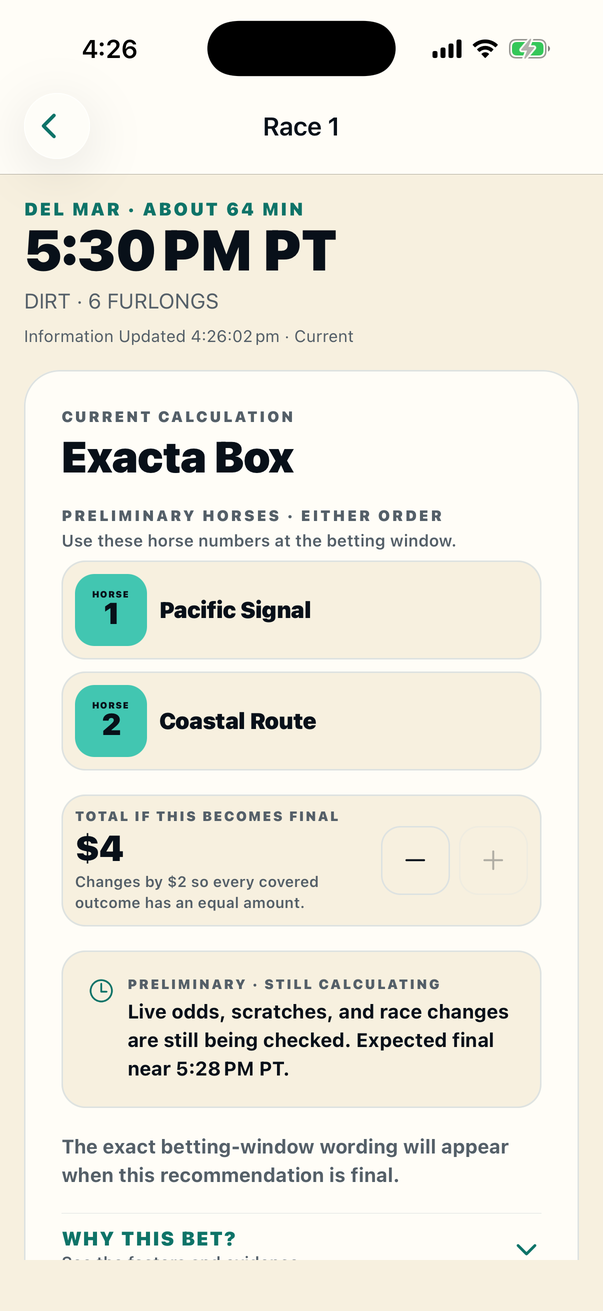
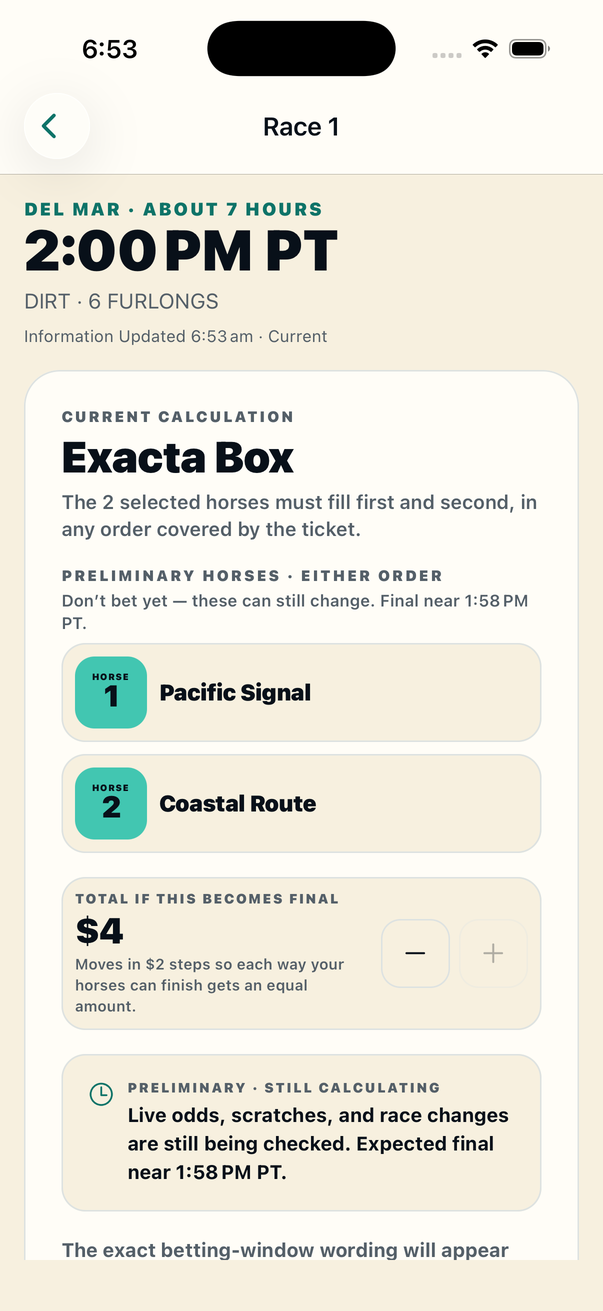
Refresh app screenshots from the redesigned Today/race screens; resolve free-launch copy contradictions; rename Method references to How It Works

diff --git a/index.html b/index.html
@@ -34,8 +34,7 @@
         "url": "https://horseracingcompanion.com/",
         "author": { "@type": "Person", "name": "Brett Pollak" },
         "offers": [
-          { "@type": "Offer", "price": "0", "priceCurrency": "USD", "description": "Free for the first three complete Del Mar racing days; race cards, results, and the Method page stay free." },
-          { "@type": "Offer", "price": "19.99", "priceCurrency": "USD", "description": "One-time, non-renewing Del Mar season pass for continuing live recommendations." }
+          { "@type": "Offer", "price": "0", "priceCurrency": "USD", "description": "Free this season — every racing day, with nothing to buy in the current version." }
         ]
       }
     </script>
@@ -84,11 +83,11 @@
               <span class="appstore-badge-text"><small>Coming soon to the</small><strong>App Store</strong></span>
             </span>
           </div>
-          <p class="free-note"><strong>Free for your first three complete racing days.</strong> No subscription and no automatic renewal.</p>
+          <p class="free-note"><strong>Free this season — every racing day.</strong> No subscription, no automatic renewal, nothing to buy.</p>
         </div>
         <div class="hero-visual" role="img" aria-label="Preview of the Horse Racing Companion Today screen">
           <div class="phone-shell">
-            <img src="assets/today-preview.png" alt="Horse Racing Companion showing a preliminary four-dollar ticket for Race 1" width="603" height="1311">
+            <img src="assets/today-preview.png" alt="Horse Racing Companion Today screen showing a strong play in Race 1 with a preliminary four-dollar Exacta Box and a small play in Race 2" width="603" height="1311">
           </div>
         </div>
       </section>
@@ -233,14 +232,14 @@
       <section id="access" class="section cream-section">
         <div class="shell access-grid">
           <div>
-            <p class="eyebrow">FREE TO START</p>
-            <h2>Your first three race days are free.</h2>
-            <p>Each free day includes every race on that Del Mar card. If live information is unavailable, the day does not count against your three.</p>
+            <p class="eyebrow">FREE THIS SEASON</p>
+            <h2>Every racing day is free while validation continues.</h2>
+            <p>Every race on every Del Mar card is included, at no cost, while the model completes its live validation season.</p>
           </div>
           <div class="access-card">
             <p class="access-kicker">FREE TO USE</p>
-            <div class="price-row"><strong>Free</strong><span>for three complete racing days</span></div>
-            <p class="access-fine-print">A paywall appears only after you have used three complete racing days. Continuing live recommendations for the named season requires a one-time $19.99 season pass; it does not renew. Race cards, results, and the Method page stay free.</p>
+            <div class="price-row"><strong>Free</strong><span>for the whole season</span></div>
+            <p class="access-fine-print">There is nothing to buy in the current version. A one-time, non-renewing season pass may be introduced in a future season only after the model passes live validation. Race cards, results, and the How It Works page will stay free either way.</p>
           </div>
         </div>
       </section>

diff --git a/terms/index.html b/terms/index.html
@@ -47,8 +47,8 @@
           <p>You alone decide whether to wager, what to say to a teller, whether a ticket is correct before accepting it, and how much you can afford to lose. Always confirm the track, race, bet type, horse program numbers, base amount, combinations, and total on the issued ticket before leaving the window.</p>
 
           <h2 id="purchases">Free days and season passes</h2>
-          <p>The app includes three free Del Mar racing days. A free day is used only when you intentionally activate an eligible live racing date. Access rules shown in the app at the time of activation control.</p>
-          <p>After the three free days are used, continuing live recommendations for the named season requires a non-renewing in-app purchase. The U.S. price is $19.99, but the price shown by the App Store at confirmation controls and may vary by region or tax. The pass does not renew automatically.</p>
+          <p>In the current version, every Del Mar racing day is complimentary while the model completes its live validation season. There is no in-app purchase. Access rules shown in the app control.</p>
+          <p>A non-renewing season pass may be offered in a future version only after live validation. If offered, the price shown by the App Store at confirmation controls and any pass will not renew automatically.</p>
           <p>Payment is processed by Apple and charged to your Apple Account after confirmation. Purchase history, refunds, and billing issues are managed by Apple under its terms. Restore Purchases requires the same Apple Account and a transaction Apple makes available for verification. A pass unlocks eligible app features; it does not guarantee a recommendation, winning wager, minimum number of tickets, uninterrupted data, or financial return.</p>
 
           <h2 id="availability">Data and service availability</h2>

diff --git a/support/index.html b/support/index.html
@@ -56,8 +56,8 @@
           <h2>Free days and season access</h2>
           <h3>When is a free day used?</h3>
           <p>Only after you intentionally choose to unlock a Del Mar racing day while live information is available. That unlocks every race on that day’s card.</p>
-          <h3>What happens after my three free days?</h3>
-          <p>Your first three complete racing days are free. After you use all three, continuing live recommendations for the dates named in the app requires a one-time $19.99 season pass. It does not renew automatically. Race cards, results, and the Method page stay free.</p>
+          <h3>Is the app free?</h3>
+          <p>Yes. Every racing day is free this season while the model completes live validation. There is nothing to buy in the current version. A one-time, non-renewing season pass may be introduced in a future season only after a successful validation; race cards, results, and the How It Works page will stay free either way.</p>
           <h3>How do I restore a purchase?</h3>
           <p>Open Settings in the app and choose Restore Purchases. Use the same Apple Account that made the purchase. If no valid pass is found, email support with the app version and approximate purchase date—but never send payment-card information.</p>
 

diff --git a/privacy/index.html b/privacy/index.html
@@ -34,7 +34,7 @@
           <h2 id="summary">Privacy at a glance</h2>
           <div class="legal-callout">
             <p><strong>No account, ad profile, analytics SDK, or location permission is required.</strong></p>
-            <p>The app uses a random installation identifier to provide complimentary-day and season-pass access. We do not sell personal information, track you across other companies’ apps or websites, or ask for your name, email address, contacts, photos, microphone, camera, or location inside the app.</p>
+            <p>The app uses a random installation identifier to provide access (in the current version, every racing day is complimentary). We do not sell personal information, track you across other companies’ apps or websites, or ask for your name, email address, contacts, photos, microphone, camera, or location inside the app.</p>
           </div>
 
           <h2 id="collect">Information we collect</h2>
